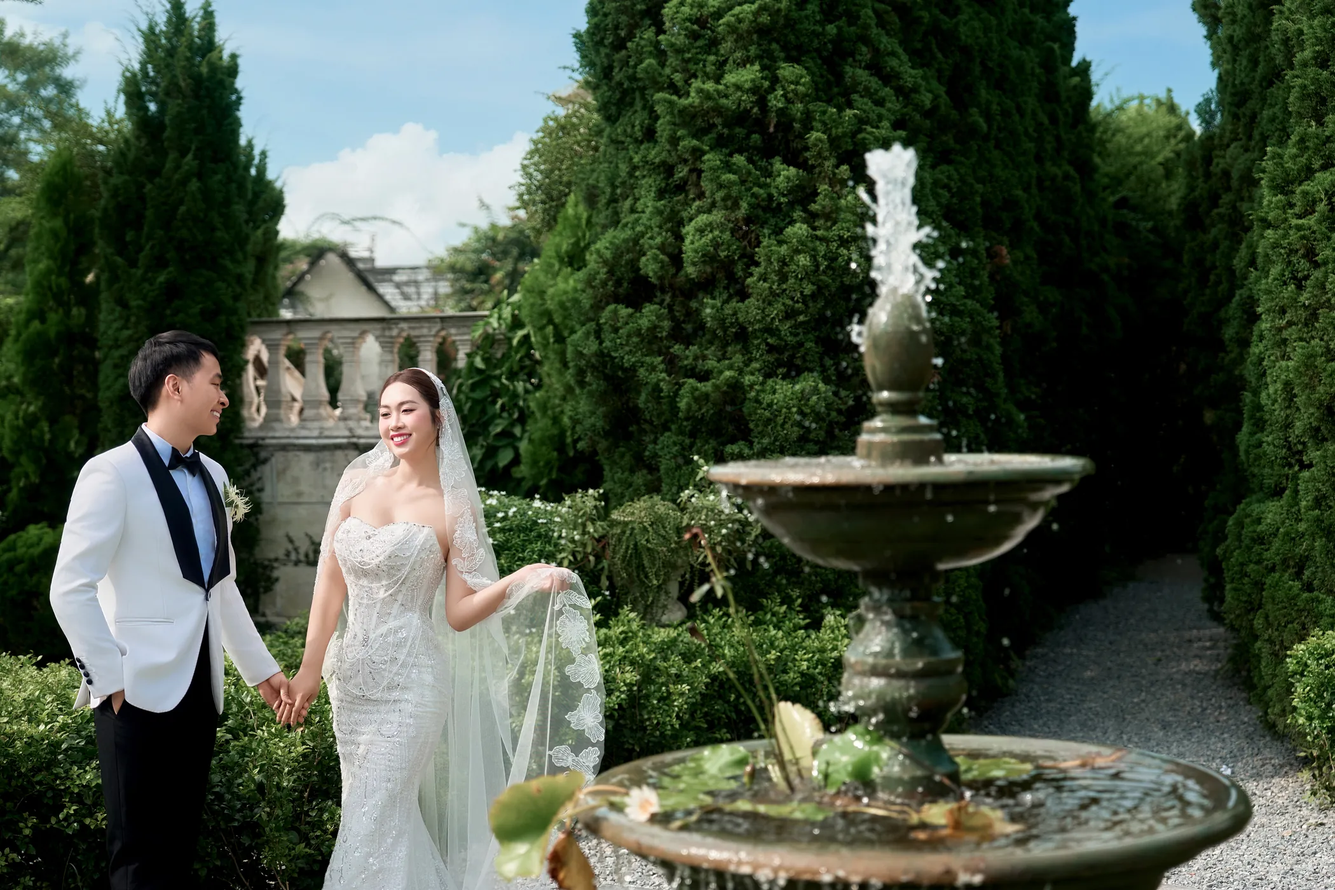
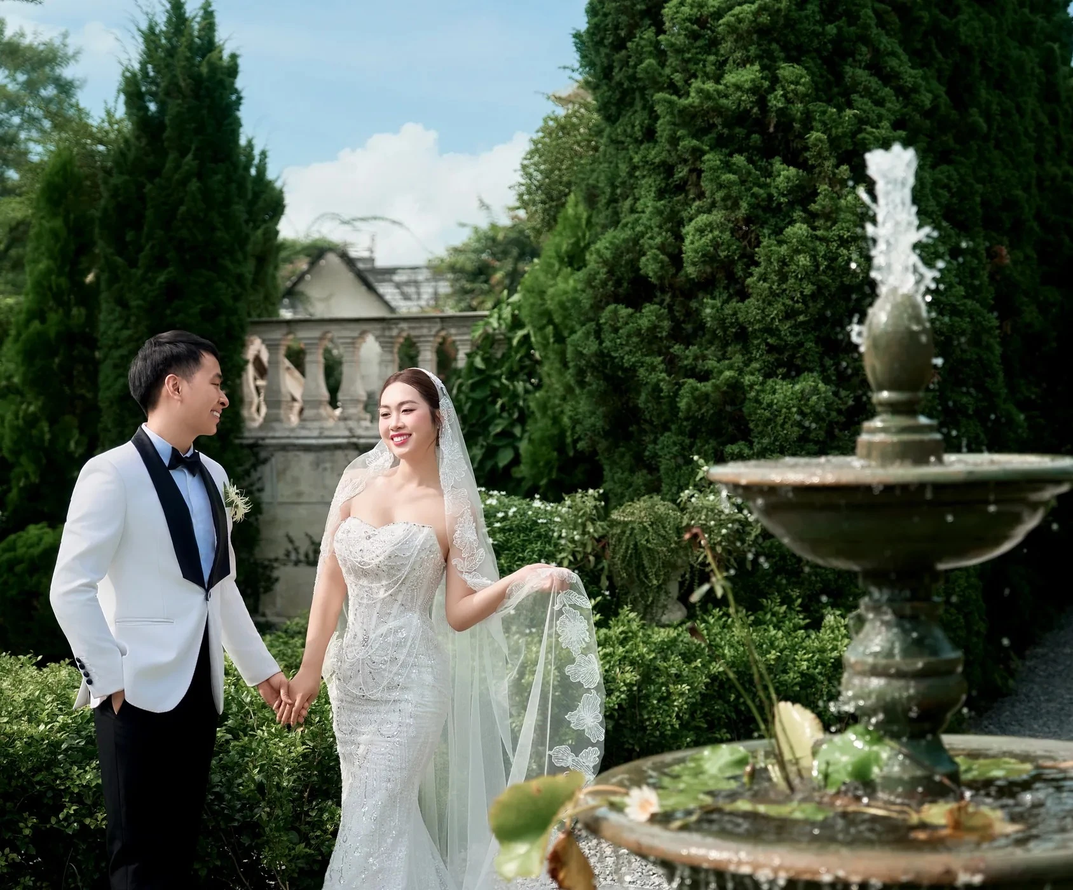
Chi 1 folder anh media/album; cover cung lay tu day (cau hinh trong config)

diff --git a/minhnguyet0910/index.html b/minhnguyet0910/index.html
@@ -19,7 +19,7 @@
                 <img alt="" aria-hidden="true" class="pointer-events-none absolute max-w-none object-contain opacity-[0.1] left-1/2 top-[26%] w-[170%] -translate-x-1/2" src="../assets/img/castle-background.webp">
                 <p class="relative z-10 whitespace-pre-line text-[15px] uppercase md:text-[18px]" style="font-family: 'Cormorant Garamond', 'Times New Roman', serif; color: rgb(89, 3, 16); letter-spacing: 0.16em; font-weight: 600;">Save The Date</p>
                 <div class="relative z-10 mt-24 w-[82%] max-w-[330px] md:mt-28 md:max-w-[420px]">
-                  <div class="relative aspect-[333/384]"><img alt="" aria-hidden="true" class="pointer-events-none absolute inset-0 z-10 w-full max-w-none" src="../assets/img/envelope-background.webp"><div class="absolute left-[33%] top-[-2%] z-20 w-[64%]" style="animation: 6.5s ease-in-out 0.4s infinite normal none running drFloat; will-change: transform;"><div class="aspect-[221/309] rotate-[12deg] border-[7px] border-white bg-white shadow-[2px_2px_4px_rgba(0,0,0,0.25)]"><img alt="" class="h-full w-full object-cover" id="cover-photo" src="../media/cover/cover.webp"></div></div><span aria-hidden="true" class="pointer-events-none absolute block -left-[2%] -top-[12%] z-[25] w-[42%]"><span class="block" style="animation: 5s ease-in-out 0s infinite normal none running drFloat; will-change: transform;"><img alt="" class="block w-full max-w-none object-contain drop-shadow-[3px_4px_3px_rgba(0,0,0,0.3)] rotate-[-17deg]" src="../assets/img/flower2-decoration.webp"></span></span><img alt="" aria-hidden="true" class="pointer-events-none absolute bottom-0 left-0 z-30 w-full max-w-none" src="../assets/img/envelope-cover.webp"></div>
+                  <div class="relative aspect-[333/384]"><img alt="" aria-hidden="true" class="pointer-events-none absolute inset-0 z-10 w-full max-w-none" src="../assets/img/envelope-background.webp"><div class="absolute left-[33%] top-[-2%] z-20 w-[64%]" style="animation: 6.5s ease-in-out 0.4s infinite normal none running drFloat; will-change: transform;"><div class="aspect-[221/309] rotate-[12deg] border-[7px] border-white bg-white shadow-[2px_2px_4px_rgba(0,0,0,0.25)]"><img alt="" class="h-full w-full object-cover" id="cover-photo" src="../media/album/04.webp"></div></div><span aria-hidden="true" class="pointer-events-none absolute block -left-[2%] -top-[12%] z-[25] w-[42%]"><span class="block" style="animation: 5s ease-in-out 0s infinite normal none running drFloat; will-change: transform;"><img alt="" class="block w-full max-w-none object-contain drop-shadow-[3px_4px_3px_rgba(0,0,0,0.3)] rotate-[-17deg]" src="../assets/img/flower2-decoration.webp"></span></span><img alt="" aria-hidden="true" class="pointer-events-none absolute bottom-0 left-0 z-30 w-full max-w-none" src="../assets/img/envelope-cover.webp"></div>
                 </div>
                 <div class="cd-name-wrap relative z-10 mt-16 flex flex-col items-center gap-[22px] md:mt-20">
                   <p class="cd-script-name text-[clamp(38px,11vw,46px)] leading-none md:text-[58px]" style="font-family: 'Viaoda Libre', 'The Nautigal', cursive; color: rgb(81, 20, 25);">Nguyễn Quang Long</p>

diff --git a/quanglong2210/index.html b/quanglong2210/index.html
@@ -19,7 +19,7 @@
                 <img alt="" aria-hidden="true" class="pointer-events-none absolute max-w-none object-contain opacity-[0.1] left-1/2 top-[26%] w-[170%] -translate-x-1/2" src="../assets/img/castle-background.webp">
                 <p class="relative z-10 whitespace-pre-line text-[15px] uppercase md:text-[18px]" style="font-family: 'Cormorant Garamond', 'Times New Roman', serif; color: rgb(89, 3, 16); letter-spacing: 0.16em; font-weight: 600;">Save The Date</p>
                 <div class="relative z-10 mt-24 w-[82%] max-w-[330px] md:mt-28 md:max-w-[420px]">
-                  <div class="relative aspect-[333/384]"><img alt="" aria-hidden="true" class="pointer-events-none absolute inset-0 z-10 w-full max-w-none" src="../assets/img/envelope-background.webp"><div class="absolute left-[33%] top-[-2%] z-20 w-[64%]" style="animation: 6.5s ease-in-out 0.4s infinite normal none running drFloat; will-change: transform;"><div class="aspect-[221/309] rotate-[12deg] border-[7px] border-white bg-white shadow-[2px_2px_4px_rgba(0,0,0,0.25)]"><img alt="" class="h-full w-full object-cover" id="cover-photo" src="../media/cover/cover.webp"></div></div><span aria-hidden="true" class="pointer-events-none absolute block -left-[2%] -top-[12%] z-[25] w-[42%]"><span class="block" style="animation: 5s ease-in-out 0s infinite normal none running drFloat; will-change: transform;"><img alt="" class="block w-full max-w-none object-contain drop-shadow-[3px_4px_3px_rgba(0,0,0,0.3)] rotate-[-17deg]" src="../assets/img/flower2-decoration.webp"></span></span><img alt="" aria-hidden="true" class="pointer-events-none absolute bottom-0 left-0 z-30 w-full max-w-none" src="../assets/img/envelope-cover.webp"></div>
+                  <div class="relative aspect-[333/384]"><img alt="" aria-hidden="true" class="pointer-events-none absolute inset-0 z-10 w-full max-w-none" src="../assets/img/envelope-background.webp"><div class="absolute left-[33%] top-[-2%] z-20 w-[64%]" style="animation: 6.5s ease-in-out 0.4s infinite normal none running drFloat; will-change: transform;"><div class="aspect-[221/309] rotate-[12deg] border-[7px] border-white bg-white shadow-[2px_2px_4px_rgba(0,0,0,0.25)]"><img alt="" class="h-full w-full object-cover" id="cover-photo" src="../media/album/04.webp"></div></div><span aria-hidden="true" class="pointer-events-none absolute block -left-[2%] -top-[12%] z-[25] w-[42%]"><span class="block" style="animation: 5s ease-in-out 0s infinite normal none running drFloat; will-change: transform;"><img alt="" class="block w-full max-w-none object-contain drop-shadow-[3px_4px_3px_rgba(0,0,0,0.3)] rotate-[-17deg]" src="../assets/img/flower2-decoration.webp"></span></span><img alt="" aria-hidden="true" class="pointer-events-none absolute bottom-0 left-0 z-30 w-full max-w-none" src="../assets/img/envelope-cover.webp"></div>
                 </div>
                 <div class="cd-name-wrap relative z-10 mt-16 flex flex-col items-center gap-[22px] md:mt-20">
                   <p class="cd-script-name text-[clamp(38px,11vw,46px)] leading-none md:text-[58px]" style="font-family: 'Viaoda Libre', 'The Nautigal', cursive; color: rgb(81, 20, 25);">Nguyễn Quang Long</p>

diff --git a/minhnguyet0910/config.js b/minhnguyet0910/config.js
@@ -38,8 +38,8 @@ window.WEDDING = {
     { time: "20:30", label: "Kết thúc tiệc" }
   ],
 
-  // ----- Tài nguyên: chọn file từ thư mục media/ dùng chung (../media) -----
+  // ----- Tài nguyên: chọn file từ media/album (ảnh dùng chung). cover = 1 ảnh trong album -----
   album: ["01.webp","02.webp","03.webp","04.webp","05.webp","06.webp","07.webp","08.webp","09.webp","10.webp","11.webp","12.webp","13.webp","14.webp","15.webp","16.webp","17.webp","18.webp","19.webp","20.webp","21.webp","22.webp","23.webp","24.webp","25.webp","26.webp","27.webp","28.webp","29.webp","30.webp","31.webp","32.webp","33.webp"],
-  cover: "cover.webp",
+  cover: "04.webp",
   music: "nhac-nen.mp3"
 };

diff --git a/quanglong2210/config.js b/quanglong2210/config.js
@@ -38,8 +38,8 @@ window.WEDDING = {
     { time: "20:30", label: "Kết thúc tiệc" }
   ],
 
-  // ----- Tài nguyên: chọn file từ thư mục media/ dùng chung (../media) -----
+  // ----- Tài nguyên: chọn file từ media/album (ảnh dùng chung). cover = 1 ảnh trong album -----
   album: ["01.webp","02.webp","03.webp","04.webp","05.webp","06.webp","07.webp","08.webp","09.webp","10.webp","11.webp","12.webp","13.webp","14.webp","15.webp","16.webp","17.webp","18.webp","19.webp","20.webp","21.webp","22.webp","23.webp","24.webp","25.webp","26.webp","27.webp","28.webp","29.webp","30.webp","31.webp","32.webp","33.webp"],
-  cover: "cover.webp",
+  cover: "04.webp",
   music: "nhac-nen.mp3"
 };

diff --git a/js/render.js b/js/render.js
@@ -70,7 +70,7 @@
     if (dots && urls.length > 14) dots.style.display = 'none';
   }
 
-  function setCover() { var el = $('#cover-photo'); if (el && cfg.cover) el.src = SB + 'media/cover/' + cfg.cover; }
+  function setCover() { var el = $('#cover-photo'); if (el && cfg.cover) el.src = SB + 'media/album/' + cfg.cover; }
   function setMusic() { var a = $('audio'); if (a && cfg.music) a.src = SB + 'media/music/' + cfg.music; }
 
   // ----- Lịch trình ngày cưới -----
